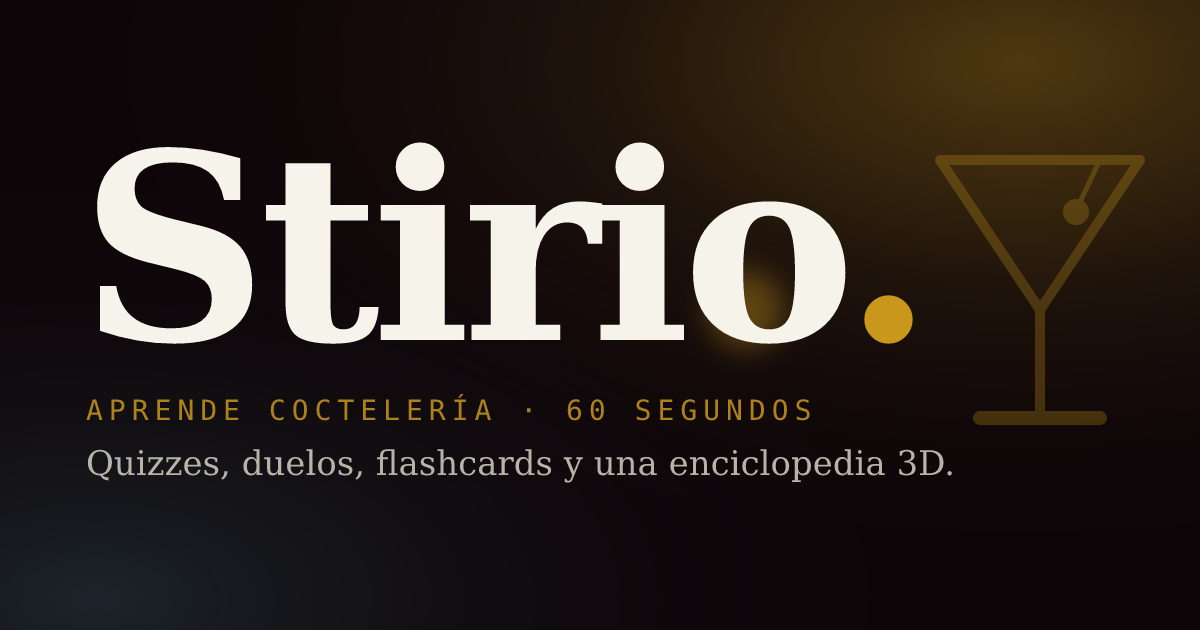
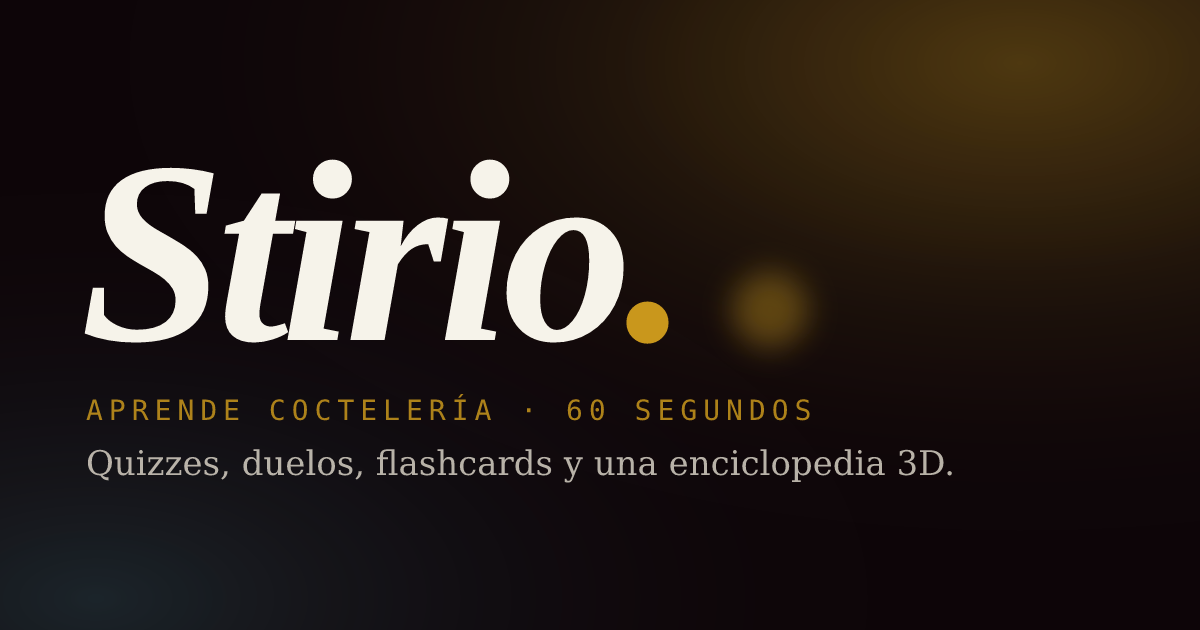
fix(i18n+ux): mezclas de idiomas, cajitas negras, botón compartir, OG italic
- js/screens.jsx RefTileLarge: el bg de "Referencia rápida 2×2" usaba
  oklch(from var(--X) l c h / 0.12) — sintaxis relativa Baseline 2024
  que falló en el browser del usuario dejando las cajas negras vacías.
  Reemplazado por tokens directos var(--X-soft) / var(--X-glow) que
  funcionan en todos los navegadores.
- js/app.jsx BottomNav: "Home" y "You" hardcoded → t('app.nav.home'/'app.nav.you')
- js/lesson.jsx: i18n para "Let’s go", "Lock it in", "// did you know",
  "Start shaking", "Pour now", shake hint, y lesson.category/difficulty
  (Cocktails/Intermediate → Cócteles/Intermedio según idioma)
- 5 idiomas: 25 claves nuevas en es/en/fr/pt/de (app.nav.*,
  lesson.category.*, lesson.difficulty.*, lesson.lets_go, lesson.lock_in,
  lesson.did_you_know, lesson.start_shaking, lesson.pour_now,
  lesson.shake_hint, home.share_app, home.share_text, home.share_copied)
- Nuevo helper shareApp() en ui.jsx usando navigator.share (+ fallback
  clipboard). Aádido icon name="share" (SVG inline). Nuevo botón
  compartir en el Home header, junto al StreakBadge, con toast al copiar.
  Espera preloadAllTranslations() antes de compartir para evitar leaks
  de clave literal.
- og-image.svg: wordmark "Stirio." pasa a italic, se elimina la silueta
  martini decorativa. scripts/build-icons.mjs prefiere Liberation Serif
  (tiene italic) vs DejaVu Serif (no lo tiene)
- sw.js bump v10.51 → v10.52

https://claude.ai/code/session_01BeiCrcQM7sf3oPr1tNfkLE

diff --git a/js/lesson.jsx b/js/lesson.jsx
@@ -128,7 +128,7 @@ const LessonPlayer = ({ lesson, onExit, onFinish }) => {
             fontFamily: 'var(--f-mono)', fontSize: 10, color: 'var(--ink-3)',
             marginTop: 10,
           }}>
-            <span>{lesson.category} · {lesson.title}</span>
+            <span>{(window.stUiT ? window.stUiT(`lesson.category.${(lesson.category || '').toLowerCase()}`, lesson.category) : lesson.category)} · {lesson.title}</span>
             <span>{stepIdx + 1} / {lesson.steps.length}</span>
           </div>
         </div>
@@ -210,7 +210,7 @@ const LessonPlayer = ({ lesson, onExit, onFinish }) => {
           <span style={{ color: 'var(--ok)' }}>✓ {correct}</span>
           <span style={{ color: 'var(--ink-3)' }}>✕ {wrong}</span>
         </div>
-        <div style={{ color: 'var(--ink-3)' }}>{lesson.difficulty}</div>
+        <div style={{ color: 'var(--ink-3)' }}>{(window.stUiT ? window.stUiT(`lesson.difficulty.${(lesson.difficulty || '').toLowerCase()}`, lesson.difficulty) : lesson.difficulty)}</div>
       </div>
     </div>
   );
@@ -218,11 +218,14 @@ const LessonPlayer = ({ lesson, onExit, onFinish }) => {
 
 // ————— step components —————
 
-const IntroStep = ({ step, lesson, onContinue }) => (
+const IntroStep = ({ step, lesson, onContinue }) => {
+  const tr = (k, f) => (window.stUiT ? window.stUiT(k, f) : (f || k));
+  const categoryLabel = tr(`lesson.category.${(lesson.category || '').toLowerCase()}`, lesson.category);
+  return (
   <div style={{ textAlign: 'center' }}>
     <div style={{ fontSize: 64, marginBottom: 16, filter: 'drop-shadow(0 8px 20px var(--amber-glow))' }}>{lesson.emoji}</div>
     <div className="mono caps" style={{ color: 'var(--amber)', fontSize: 11, marginBottom: 8 }}>
-      {lesson.category}{Number.isFinite(lesson._timed) ? ` · ${lesson._timed}s` : ''}
+      {categoryLabel}{Number.isFinite(lesson._timed) ? ` · ${lesson._timed}s` : ''}
     </div>
     <h1 style={{
       fontFamily: 'var(--f-serif)', fontWeight: 400,
@@ -245,17 +248,18 @@ const IntroStep = ({ step, lesson, onContinue }) => (
         color: 'var(--ink-2)',
         maxWidth: 480, textAlign: 'left',
       }}>
-        <span style={{ color: 'var(--amber)' }}>// did you know</span><br />
+        <span style={{ color: 'var(--amber)' }}>{tr('lesson.did_you_know', '// did you know')}</span><br />
         {step.fact}
       </div>
     )}
     <div style={{ marginTop: 32 }}>
       <button className="btn primary" onClick={onContinue} style={{ padding: '14px 28px', fontSize: 15 }}>
-        Let's go <Icon name="arrowR" size={16} />
+        {tr('lesson.lets_go', 'Let’s go')} <Icon name="arrowR" size={16} />
       </button>
     </div>
   </div>
-);
+  );
+};
 
 const ChoiceStep = ({ step, onAnswer }) => {
   const [selected, setSelected] = useState(null);
@@ -392,7 +396,7 @@ const MultiSelectStep = ({ step, onAnswer }) => {
             padding: '12px 24px',
           }}
         >
-          Lock it in ({picks.length}/{need})
+          {(window.stUiT ? window.stUiT('lesson.lock_in', 'Lock it in') : 'Lock it in')} ({picks.length}/{need})
         </button>
       </div>
     </div>
@@ -604,18 +608,18 @@ const TimingStep = ({ step, onAnswer }) => {
       </div>
       {!started ? (
         <button className="btn primary" onClick={() => setStarted(true)} style={{ padding: '14px 30px' }}>
-          Start shaking
+          {(window.stUiT ? window.stUiT('lesson.start_shaking', 'Start shaking') : 'Start shaking')}
         </button>
       ) : (
         <button className="btn primary" onClick={() => {
           const ok = Math.abs(elapsed - step.target) <= step.tolerance;
           onAnswer(ok);
         }} style={{ padding: '14px 30px' }}>
-          Pour now
+          {(window.stUiT ? window.stUiT('lesson.pour_now', 'Pour now') : 'Pour now')}
         </button>
       )}
       <div style={{ marginTop: 16, fontFamily: 'var(--f-mono)', fontSize: 11, color: 'var(--ink-3)' }}>
-        shake hard · aim for peak foam
+        {(window.stUiT ? window.stUiT('lesson.shake_hint', 'shake hard · aim for peak foam') : 'shake hard · aim for peak foam')}
       </div>
     </div>
   );

diff --git a/js/ui.jsx b/js/ui.jsx
@@ -48,6 +48,7 @@ const Icon = ({ name, size = 20, style: extraStyle }) => {
     cube: <><path d="M21 16V8a2 2 0 0 0-1-1.73l-7-4a2 2 0 0 0-2 0l-7 4A2 2 0 0 0 3 8v8a2 2 0 0 0 1 1.73l7 4a2 2 0 0 0 2 0l7-4A2 2 0 0 0 21 16z" /><polyline points="3.27 6.96 12 12.01 20.73 6.96" /><line x1="12" y1="22.08" x2="12" y2="12" /></>,
     camera: <><path d="M23 19a2 2 0 0 1-2 2H3a2 2 0 0 1-2-2V8a2 2 0 0 1 2-2h4l2-3h6l2 3h4a2 2 0 0 1 2 2z" /><circle cx="12" cy="13" r="4" /></>,
     edit: <><path d="M4 20h4l10-10-4-4L4 16z" /><path d="M14 6l4 4" /></>,
+    share: <><circle cx="6" cy="12" r="3" /><circle cx="18" cy="6" r="3" /><circle cx="18" cy="18" r="3" /><path d="M8.6 10.5l6.8-3" /><path d="M8.6 13.5l6.8 3" /></>,
   };
   return (
     <svg viewBox="0 0 24 24" fill="none" stroke="currentColor" strokeWidth="1.6"
@@ -178,6 +179,37 @@ const playChord = (type = 'major') => {
     });
     setTimeout(() => ctx.close(), 1400);
   } catch (e) {}
+};
+
+// ── Share the app (Web Share API + clipboard fallback) ───────
+// Called from Home and Profile. Respects the user's current language by
+// reading from `window.stLang` at invocation time. Returns 'shared' |
+// 'copied' | null for the caller to surface UI feedback.
+const shareApp = async () => {
+  try {
+    if (window.stLang && typeof window.stLang.preloadAllTranslations === 'function') {
+      await window.stLang.preloadAllTranslations();
+    }
+  } catch {}
+  const trLocal = (k, f) => (window.stLang?.t ? (window.stLang.t(k) === k ? f : window.stLang.t(k)) : f);
+  const title = trLocal('home.share_app', 'Compartir Stirio');
+  const text = trLocal('home.share_text', '¡Estoy aprendiendo coctelería en Stirio! Te reto a superarme 🍸');
+  const url = 'https://robinn4k.github.io/Stirio/';
+  try {
+    if (navigator.share) {
+      await navigator.share({ title, text, url });
+      return 'shared';
+    }
+  } catch (e) {
+    if (e && e.name === 'AbortError') return null;
+  }
+  try {
+    if (navigator.clipboard) {
+      await navigator.clipboard.writeText(`${text} ${url}`);
+      return 'copied';
+    }
+  } catch {}
+  return null;
 };
 
 // ── Haptic feedback ───────────────────────────────────────────
@@ -398,7 +430,7 @@ Object.assign(window, {
   stUiT: t,
   Icon, Placeholder, Skeleton, XPPop, GlowRing, StreakBadge,
   Prompt, StepTitle,
-  playChord, confettiBurst, hapticTap,
+  playChord, confettiBurst, hapticTap, shareApp,
   CookieBanner, LegalFooter,
   ToastHost, stToast: { show: showToast },
 });

diff --git a/js/screens.jsx b/js/screens.jsx
@@ -773,6 +773,20 @@ const Home = ({ profile, onPickLesson, onOpenProfile, onOpenMode }) => {
         </div>
         <div style={{ display: 'flex', alignItems: 'center', gap: 10 }}>
           <StreakBadge count={profile.streak} />
+          <button
+            className="btn ghost"
+            onClick={async () => {
+              const result = window.shareApp ? await window.shareApp() : null;
+              if (result === 'copied') {
+                window.stToast?.show({ kind: 'info', title: tr('home.share_copied', 'Enlace copiado'), ttl: 2000 });
+              }
+            }}
+            style={{ padding: 8, width: 38, height: 38, borderRadius: '50%' }}
+            aria-label={tr('home.share_app', 'Compartir Stirio')}
+            title={tr('home.share_app', 'Compartir Stirio')}
+          >
+            <Icon name="share" size={16} />
+          </button>
           <button className="btn ghost" onClick={onOpenProfile} style={{ padding: 6, borderRadius: '50%' }} aria-label="Profile">
             {(() => {
               const photo = profile.avatar || profile.photoURL;
@@ -1310,8 +1324,11 @@ const RefTileLarge = ({ icon, label, preview, badge, onClick, accent = 'amber' }
     padding: 16, textAlign: 'left', cursor: 'pointer',
     display: 'flex', flexDirection: 'column', justifyContent: 'space-between', gap: 10,
     minHeight: 130,
-    background: `linear-gradient(160deg, oklch(from var(--${accent}) l c h / 0.12), var(--bg-2) 70%)`,
-    borderColor: `oklch(from var(--${accent}) l c h / 0.25)`,
+    // --<accent>-soft + --<accent>-glow are defined per-theme in tokens.css and
+    // work on every browser. Previously used oklch(from …) relative syntax
+    // which silently failed on older Chromium/Safari → blank card fallback.
+    background: `linear-gradient(160deg, var(--${accent}-soft, var(--amber-soft)), var(--bg-2) 70%)`,
+    borderColor: `var(--${accent}-glow, var(--amber-glow))`,
     transition: 'transform .15s, border-color .2s',
   }}
     onMouseEnter={e => { e.currentTarget.style.transform = 'translateY(-2px)'; e.currentTarget.style.borderColor = `var(--${accent})`; }}

diff --git a/js/app.jsx b/js/app.jsx
@@ -737,7 +737,7 @@ const BottomNav = ({ current, onNav, onPlay, shortcut }) => {
       boxShadow: '0 20px 40px rgba(0,0,0,0.5), 0 0 0 1px var(--line-soft)',
       pointerEvents: 'auto',
     }}>
-      <NavBtn icon="home" label="Home" active={current === 'home'} onClick={() => onNav('home')} />
+      <NavBtn icon="home" label={tr('app.nav.home', 'Home')} active={current === 'home'} onClick={() => onNav('home')} />
       <button onClick={onPlay} style={{
         width: 52, height: 52, borderRadius: '50%',
         background: 'var(--amber)',
@@ -755,7 +755,7 @@ const BottomNav = ({ current, onNav, onPlay, shortcut }) => {
       >
         {shortcut?.icon || <Icon name="play" size={22} />}
       </button>
-      <NavBtn icon="user" label="You" active={current === 'profile'} onClick={() => onNav('profile')} />
+      <NavBtn icon="user" label={tr('app.nav.you', 'You')} active={current === 'profile'} onClick={() => onNav('profile')} />
     </div>
   </nav>
   );

diff --git a/sw.js b/sw.js
@@ -105,7 +105,7 @@ const CACHE_PATHS = [
 // Build full pathnames like /Stirio/index.html or /index.html
 const CACHE_LIST = CACHE_PATHS.map(p => BASE + p);
 
-const STATIC_CACHE_VERSION = `Stirio-v10.51`;
+const STATIC_CACHE_VERSION = `Stirio-v10.52`;
 const DEBUG = false;
 
 self.addEventListener('install', function(event) {
